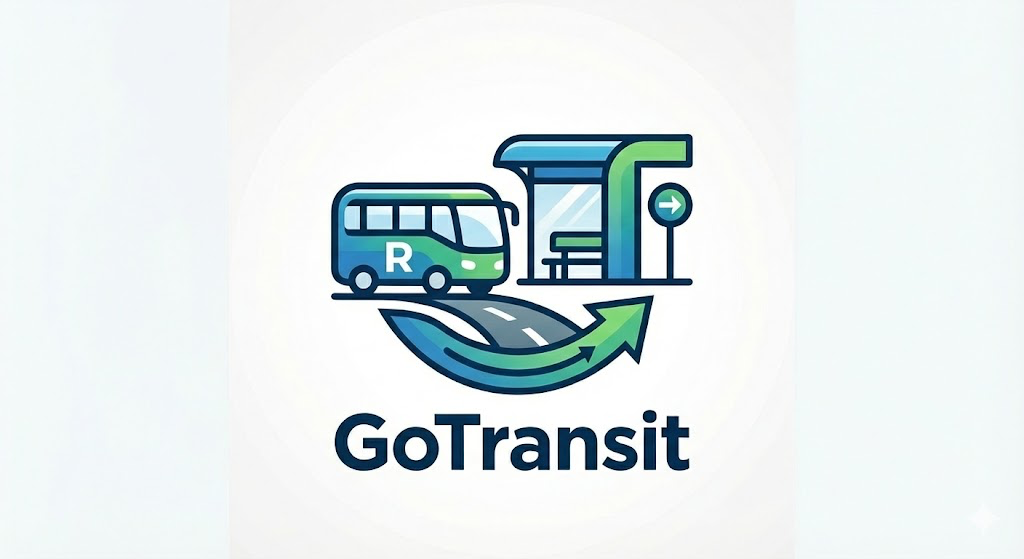
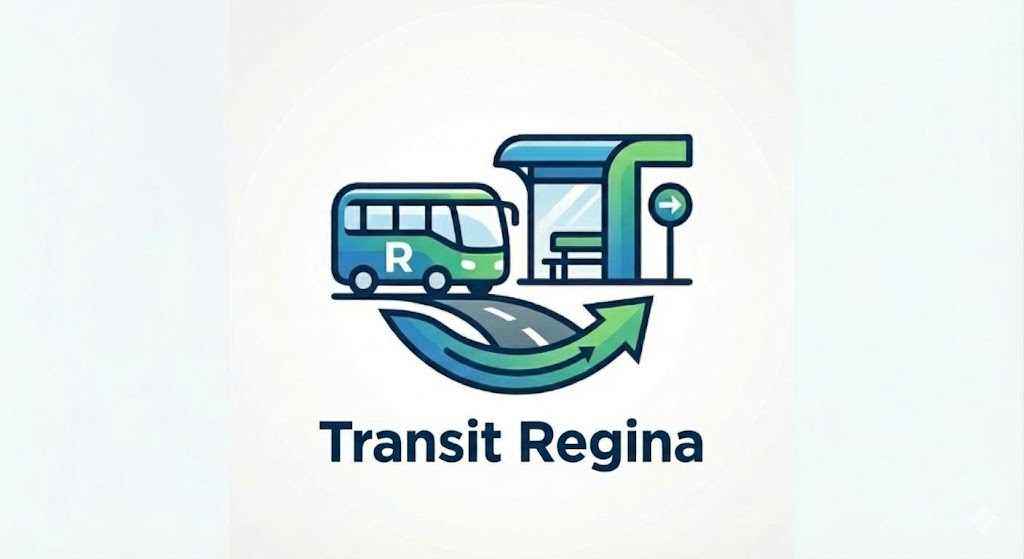
Rename GoTransit Regina to Transit Regina
- Replace the old name in all user-facing text: page title and description,
  app manifest, push notification title, SMS reminder prefix, auth pages,
  landing page, connect page, admin dashboard and logo alt text
- Landing page now shows transitregina.ca instead of the old domain
- New logo: public/image.png and the in-app logo (src/New-Image.jpeg)
- Add the app icons the manifest refers to (logo32/192/512), generated
  from the new logo
- Remove favicon.ico; the push badge now uses image.png
- Update file-header comments, README and the weather service identifier

The Vercel preview-URL pattern in server.ts (go-transit-…) is unchanged
because it must match the Vercel project's name.

diff --git a/src/views/landing/sections/ComparisonTable.tsx b/src/views/landing/sections/ComparisonTable.tsx
@@ -1,7 +1,7 @@
 /**
- * ComparisonTable.tsx — GoTransit Regina
+ * ComparisonTable.tsx — Transit Regina
  *
- * "Why GoTransit Regina?" section — bold VS battle card design.
+ * "Why Transit Regina?" section — bold VS battle card design.
  *
  * Layout: two large glass panels side-by-side with a glowing VS badge
  * in the centre. Each panel lists what you get (or don't get). No table,
@@ -17,7 +17,7 @@ interface Feature {
     icon: React.FC<{ size?: number; className?: string }>;
 }
 
-const goTransitFeatures: Feature[] = [
+const transitReginaFeatures: Feature[] = [
     { label: 'Live bus positions on your phone', icon: Navigation },
     { label: 'Real-time arrival estimates', icon: Wifi },
     { label: 'Click any stop for live arrivals', icon: MapPin },
@@ -49,7 +49,7 @@ export default function ComparisonTable() {
                     transition={{ duration: 0.6 }}
                 >
                     <h2 className="text-3xl sm:text-5xl font-bold mb-5" style={{ color: '#0f172a' }}>
-                        Why <span style={{ color: '#003DA5' }}>GoTransit</span> Regina?
+                        Why <span style={{ color: '#003DA5' }}>Transit</span> Regina?
                     </h2>
                     <p className="text-xl max-w-xl mx-auto" style={{ color: '#64748b' }}>
                         Purpose-built for Regina riders, not a generic transit clone
@@ -111,7 +111,7 @@ export default function ComparisonTable() {
                         </motion.div>
                     </div>
 
-                    {/* Right — GoTransit Regina (brand blue glow) */}
+                    {/* Right — Transit Regina (brand blue glow) */}
                     <motion.div
                         className="rounded-3xl p-8 md:p-10 flex flex-col relative overflow-hidden"
                         style={{
@@ -131,14 +131,14 @@ export default function ComparisonTable() {
                         <div className="mb-8 relative">
                             <span className="inline-block px-4 py-1.5 rounded-full text-sm font-semibold mb-4 text-white"
                                 style={{ background: '#003DA5' }}>
-                                ⭐ GoTransit Regina
+                                ⭐ Transit Regina
                             </span>
-                            <h3 className="text-3xl font-bold" style={{ color: '#003DA5' }}>GoTransit Regina</h3>
+                            <h3 className="text-3xl font-bold" style={{ color: '#003DA5' }}>Transit Regina</h3>
                             <p className="text-base mt-2" style={{ color: '#475569' }}>Designed for every Regina commuter</p>
                         </div>
 
                         <div className="space-y-4 flex-1 relative">
-                            {goTransitFeatures.map(({ label, icon: Icon }, i) => (
+                            {transitReginaFeatures.map(({ label, icon: Icon }, i) => (
                                 <motion.div
                                     key={label}
                                     className="flex items-center gap-3"
@@ -169,7 +169,7 @@ export default function ComparisonTable() {
                     viewport={{ once: true }}
                     transition={{ duration: 0.6, delay: 0.6 }}
                 >
-                    GoTransit Regina is built specifically for{' '}
+                    Transit Regina is built specifically for{' '}
                     <span className="font-medium" style={{ color: '#003DA5' }}>Regina's transit system and weather conditions</span>
                 </motion.p>
             </div>

diff --git a/src/views/auth/ProfilePage.tsx b/src/views/auth/ProfilePage.tsx
@@ -1,5 +1,5 @@
 /**
- * ProfilePage.tsx — GoTransit Regina user profile
+ * ProfilePage.tsx — Transit Regina user profile
  *
  * All data and logic lives in useProfileController.
  * Sections:
@@ -258,8 +258,8 @@ export default function ProfilePage() {
             <div className="bg-white border-b border-gray-100 sticky top-0 z-20">
                 <div className="max-w-lg mx-auto flex items-center justify-between px-4 py-3">
                     <Link to="/" className="inline-flex items-center gap-2">
-                        <img src={logo} alt="GoTransit Regina" className="w-8 h-8 rounded-lg object-cover" />
-                        <span className="font-bold text-gray-900">GoTransit Regina</span>
+                        <img src={logo} alt="Transit Regina" className="w-8 h-8 rounded-lg object-cover" />
+                        <span className="font-bold text-gray-900">Transit Regina</span>
                     </Link>
                     <Link to="/map" className="inline-flex items-center gap-1 text-sm text-gray-500 hover:text-gray-700 transition">
                         <ArrowLeft className="w-4 h-4" /> Back to Map
@@ -425,7 +425,7 @@ export default function ProfilePage() {
                             {/* Consent copy — shown when not yet opted in */}
                             {!profile?.sms_opted_in && (
                                 <p className="text-xs text-gray-400 leading-relaxed border-t border-gray-50 pt-3">
-                                    By enabling, you agree to receive departure reminder texts from GoTransit Regina to{' '}
+                                    By enabling, you agree to receive departure reminder texts from Transit Regina to{' '}
                                     <span className="font-medium text-gray-600">{phone}</span>.
                                     Standard message rates may apply. Reply STOP anytime to unsubscribe.
                                 </p>

diff --git a/src/views/auth/LoginPage.tsx b/src/views/auth/LoginPage.tsx
@@ -1,5 +1,5 @@
 /**
- * LoginPage.tsx — GoTransit Regina  [VIEW ONLY — MVC]
+ * LoginPage.tsx — Transit Regina  [VIEW ONLY — MVC]
  *
  * Pure View: renders UI only.
  * All logic (validation, auth, redirect) lives in useLoginController.
@@ -46,12 +46,12 @@ export default function LoginPage() {
                 {/* ── Brand ─────────────────────────────────── */}
                 <div className="text-center mb-10">
                     <Link to="/" className="inline-block mb-4">
-                        <img src={logo} alt="GoTransit Regina" className="w-16 h-16 mx-auto rounded-2xl object-cover shadow-[0_8px_24px_rgba(0,61,165,0.2)]" />
+                        <img src={logo} alt="Transit Regina" className="w-16 h-16 mx-auto rounded-2xl object-cover shadow-[0_8px_24px_rgba(0,61,165,0.2)]" />
                     </Link>
                     <h1 className="text-4xl font-bold bg-gradient-to-r from-[#003DA5] to-[#003DA5] bg-clip-text text-transparent mb-2">
                         Welcome Back
                     </h1>
-                    <p className="text-gray-500 text-sm">Sign in to your GoTransit Regina account</p>
+                    <p className="text-gray-500 text-sm">Sign in to your Transit Regina account</p>
                 </div>
 
                 {/* ── Card ─────────────────────────────────── */}

diff --git a/src/views/landing/sections/VisualDemo.tsx b/src/views/landing/sections/VisualDemo.tsx
@@ -9,7 +9,7 @@ import ssRouteTrack from '../../images/SS03.png';
 import ssRoutePlanner from '../../images/SS04.png';
 
 const demoSteps = [
-    { id: 1, title: 'Open App', description: 'Launch GoTransit Regina', screenshot: ssRouteSelect },
+    { id: 1, title: 'Open App', description: 'Launch Transit Regina', screenshot: ssRouteSelect },
     { id: 2, title: 'View Map', description: 'See nearby buses in real-time', screenshot: ssMapOverview },
     { id: 3, title: 'Track Bus', description: 'Watch your bus approach', screenshot: ssRouteTrack },
     { id: 4, title: 'Plan Route', description: 'Get route suggestions', screenshot: ssRoutePlanner },
@@ -87,7 +87,7 @@ export default function VisualDemo() {
                                     <svg className="w-3 h-3 text-green-400" fill="none" viewBox="0 0 24 24" stroke="currentColor">
                                         <path strokeLinecap="round" strokeLinejoin="round" strokeWidth={2} d="M12 15v2m-6 4h12a2 2 0 002-2v-6a2 2 0 00-2-2H6a2 2 0 00-2 2v6a2 2 0 002 2zm10-10V7a4 4 0 00-8 0v4h8z" />
                                     </svg>
-                                    gotransitregina.ca
+                                    transitregina.ca
                                 </div>
                             </div>
                         </div>

diff --git a/src/views/landing/sections/LandingFooter.tsx b/src/views/landing/sections/LandingFooter.tsx
@@ -1,5 +1,5 @@
 /**
- * LandingFooter.tsx — GoTransit Regina (Simplified)
+ * LandingFooter.tsx — Transit Regina (Simplified)
  *
  * Clean minimal footer:
  *  - Brand logo + tagline
@@ -25,7 +25,7 @@ export default function LandingFooter() {
                     {/* Brand */}
                     <div className="text-center md:text-left">
                         <h3 className="text-2xl font-bold mb-1" style={{ color: '#003DA5' }}>
-                            GoTransit Regina
+                            Transit Regina
                         </h3>
                         <p className="text-sm" style={{ color: '#64748b' }}>
                             Built by students of University of Regina for Regina commuters.
@@ -52,7 +52,7 @@ export default function LandingFooter() {
                     className="mt-10 pt-6 flex flex-col md:flex-row items-center justify-between gap-3 text-xs"
                     style={{ borderTop: '1px solid rgba(0,0,0,0.06)', color: '#94a3b8' }}
                 >
-                    <p>© 2026 GoTransit Regina. Built for Regina Commuters 🤟.</p>
+                    <p>© 2026 Transit Regina. Built for Regina Commuters 🤟.</p>
                     <p>Powered by Regina Transit · Google Maps · PostgreSQL</p>
                 </div>
             </div>

diff --git a/src/views/auth/SignupPage.tsx b/src/views/auth/SignupPage.tsx
@@ -1,5 +1,5 @@
 /**
- * SignupPage.tsx — GoTransit Regina  [VIEW ONLY — MVC]
+ * SignupPage.tsx — Transit Regina  [VIEW ONLY — MVC]
  *
  * Pure View: renders UI only.
  * All logic (validation, password strength, mobile formatting) lives in useSignupController.
@@ -81,12 +81,12 @@ export default function SignupPage() {
                 {/* Brand */}
                 <div className="text-center mb-10">
                     <Link to="/" className="inline-block mb-4">
-                        <img src={logo} alt="GoTransit Regina" className="w-16 h-16 mx-auto rounded-2xl object-cover shadow-[0_8px_24px_rgba(0,61,165,0.2)]" />
+                        <img src={logo} alt="Transit Regina" className="w-16 h-16 mx-auto rounded-2xl object-cover shadow-[0_8px_24px_rgba(0,61,165,0.2)]" />
                     </Link>
                     <h1 className="text-4xl font-bold bg-gradient-to-r from-[#003DA5] to-[#003DA5] bg-clip-text text-transparent mb-2">
                         Create Account
                     </h1>
-                    <p className="text-gray-500 text-sm">Join GoTransit Regina — it's free</p>
+                    <p className="text-gray-500 text-sm">Join Transit Regina — it's free</p>
                 </div>
 
                 {/* Card */}

diff --git a/src/views/ConnectPage.tsx b/src/views/ConnectPage.tsx
@@ -1,5 +1,5 @@
 /**
- * ConnectPage.tsx — GoTransit Regina
+ * ConnectPage.tsx — Transit Regina
  *
  * Developer showcase page accessible at /connect.
  * Shows each team member's name, role, photo, and LinkedIn link
@@ -108,7 +108,7 @@ export default function ConnectPage() {
                         Meet the <span style={{ color: '#003DA5' }}>Team</span>
                     </h1>
                     <p className="text-base sm:text-xl max-w-xl mx-auto" style={{ color: '#64748b' }}>
-                        We're students at the University of Regina who built GoTransit to make commuting less painful.
+                        We're students at the University of Regina who built Transit Regina to make commuting less painful.
                         Reach out — we'd love to connect.
                     </p>
                 </motion.div>
@@ -173,7 +173,7 @@ export default function ConnectPage() {
 
                 {/* Footer note */}
                 <p className="text-center text-sm mt-14" style={{ color: '#94a3b8' }}>
-                    © 2026 GoTransit Regina · Built at the University of Regina
+                    © 2026 Transit Regina · Built at the University of Regina
                 </p>
             </div>
         </div>

diff --git a/src/views/auth/ResetPasswordPage.tsx b/src/views/auth/ResetPasswordPage.tsx
@@ -1,5 +1,5 @@
 /**
- * ResetPasswordPage.tsx — GoTransit Regina  [VIEW ONLY — MVC]
+ * ResetPasswordPage.tsx — Transit Regina  [VIEW ONLY — MVC]
  *
  * Landing page for the emailed reset link. Lets the user choose a new password.
  * Logic lives in useResetPasswordController.
@@ -33,7 +33,7 @@ export default function ResetPasswordPage() {
             >
                 <div className="text-center mb-10">
                     <Link to="/" className="inline-block mb-4">
-                        <img src={logo} alt="GoTransit Regina" className="w-16 h-16 mx-auto rounded-2xl object-cover shadow-[0_8px_24px_rgba(0,61,165,0.2)]" />
+                        <img src={logo} alt="Transit Regina" className="w-16 h-16 mx-auto rounded-2xl object-cover shadow-[0_8px_24px_rgba(0,61,165,0.2)]" />
                     </Link>
                     <h1 className="text-4xl font-bold text-[#003DA5] mb-2">Reset Password</h1>
                     <p className="text-gray-500 text-sm">Choose a new password for your account</p>

diff --git a/src/views/auth/ForgotPasswordPage.tsx b/src/views/auth/ForgotPasswordPage.tsx
@@ -1,5 +1,5 @@
 /**
- * ForgotPasswordPage.tsx — GoTransit Regina  [VIEW ONLY — MVC]
+ * ForgotPasswordPage.tsx — Transit Regina  [VIEW ONLY — MVC]
  *
  * Asks for an email and sends a password-reset link.
  * Logic lives in useForgotPasswordController.
@@ -26,7 +26,7 @@ export default function ForgotPasswordPage() {
             >
                 <div className="text-center mb-10">
                     <Link to="/" className="inline-block mb-4">
-                        <img src={logo} alt="GoTransit Regina" className="w-16 h-16 mx-auto rounded-2xl object-cover shadow-[0_8px_24px_rgba(0,61,165,0.2)]" />
+                        <img src={logo} alt="Transit Regina" className="w-16 h-16 mx-auto rounded-2xl object-cover shadow-[0_8px_24px_rgba(0,61,165,0.2)]" />
                     </Link>
                     <h1 className="text-4xl font-bold text-[#003DA5] mb-2">Forgot Password</h1>
                     <p className="text-gray-500 text-sm">We'll email you a link to reset it</p>

diff --git a/index.html b/index.html
@@ -6,7 +6,7 @@
   <link rel="icon" type="image/png" href="/image.png" />
   <meta name="viewport" content="width=device-width, initial-scale=1, maximum-scale=1, user-scalable=no" />
   <meta name="theme-color" content="#1a73e8" />
-  <meta name="description" content="GoTransit Regina — Real-time bus tracking for the City of Regina" />
+  <meta name="description" content="Transit Regina — Real-time bus tracking for the City of Regina" />
   <meta property="og:image" content="%PUBLIC_URL%/image.png" />
   <link rel="apple-touch-icon" href="/image.png" />
   <!--
@@ -23,7 +23,7 @@
       work correctly both with client-side routing and a non-root public URL.
       Learn how to configure a non-root public URL by running `npm run build`.
     -->
-  <title>GoTransit Regina</title>
+  <title>Transit Regina</title>
 </head>
 
 <body>

diff --git a/public/sw.js b/public/sw.js
@@ -1,12 +1,12 @@
-/* GoTransit Regina — Service Worker (push notifications) */
+/* Transit Regina — Service Worker (push notifications) */
 
 self.addEventListener('push', event => {
     const data = event.data?.json() ?? {};
     event.waitUntil(
-        self.registration.showNotification(data.title || 'GoTransit Regina', {
+        self.registration.showNotification(data.title || 'Transit Regina', {
             body: data.body || '',
             icon: '/image.png',
-            badge: '/favicon.ico',
+            badge: '/image.png',
             tag: 'departure-reminder',   // replaces previous instead of stacking
             renotify: true,
             data: { url: data.url || '/map' },

diff --git a/src/models/services/UserRegistry.ts b/src/models/services/UserRegistry.ts
@@ -1,5 +1,5 @@
 /**
- * UserRegistry.ts — GoTransit Regina
+ * UserRegistry.ts — Transit Regina
  *
  * User data access via Supabase profiles table.
  * Note: email is stored in auth.users (not profiles). Run the SQL below in
@@ -102,7 +102,7 @@ export async function softDeleteUser(id: string): Promise<string | null> {
 /** Called on logout — logs event to the browser console. */
 export function recordLogout(email: string): void {
     console.log(
-        '%c[GoTransit] 🚪 LOGOUT',
+        '%c[TransitRegina] 🚪 LOGOUT',
         'background:#6B7280;color:#fff;padding:2px 6px;border-radius:4px;font-weight:bold',
         { email, at: new Date().toLocaleTimeString() }
     );
